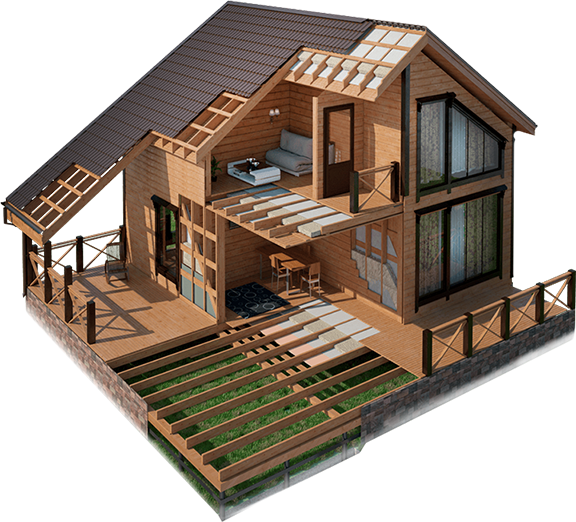
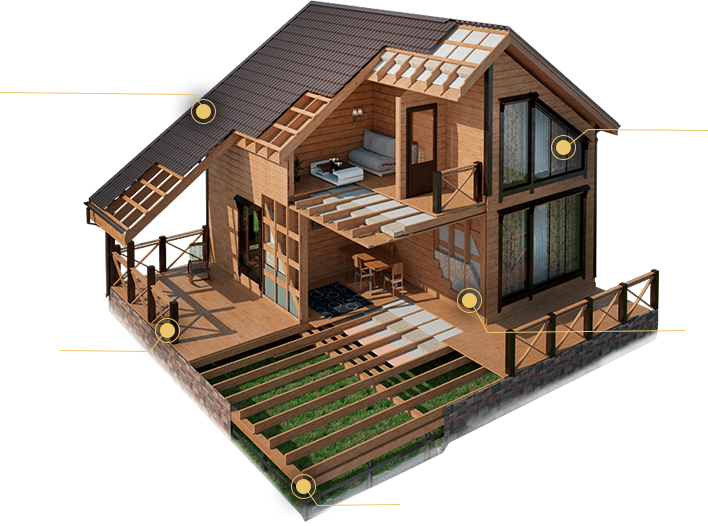
grid + house fix

diff --git a/src/styles/styles.css b/src/styles/styles.css
@@ -1,1 +1,1 @@
-*,::after,::before{box-sizing:border-box}blockquote,body,dd,dl,figure,h1,h2,h3,h4,p{margin:0}ol[role=list],ul[role=list]{list-style:none}html:focus-within{scroll-behavior:smooth}body{min-height:100vh;text-rendering:optimizeSpeed}a:not([class]){text-decoration-skip-ink:auto}img,picture{max-width:100%;display:block}button,input,select,textarea{font:inherit}@font-face{font-family:Neumann;src:url(../../fonts/td-neumann.otf)}@font-face{font-family:MuseoSansCyrl;src:url(../../fonts/MuseoSansCyrl100.ttf) format("truetype"),url(../../fonts/MuseoSansCyrl100.woff) format("woff");font-weight:100}@font-face{font-family:MuseoSansCyrl;src:url(../../fonts/MuseoSansCyrl300.ttf) format("truetype"),url(../../fonts/MuseoSansCyrl300.woff) format("woff");font-weight:300}@font-face{font-family:MuseoSansCyrl;src:url(../../fonts/MuseoSansCyrl500.ttf) format("truetype"),url(../../fonts/MuseoSansCyrl500.woff) format("woff");font-weight:500}@font-face{font-family:MuseoSansCyrl;src:url(../../fonts/MuseoSansCyrl700.ttf) format("truetype"),url(../../fonts/MuseoSansCyrl700.woff) format("woff");font-weight:700}body{background-color:#25252d;font-family:MuseoSansCyrl,sans-serif}.container{max-width:1170px;padding-right:15px;padding-left:15px;margin:0 auto}.btn{display:flex;border-radius:30px;justify-content:center;align-items:center;text-decoration:none;height:60px}.btn-gradient{background-image:-moz-linear-gradient(0deg,#fcc372 0,#f0dbbc 100%);background-image:-webkit-linear-gradient(0deg,#fcc372 0,#f0dbbc 100%);background-image:-ms-linear-gradient(0deg,#fcc372 0,#f0dbbc 100%)}.btn-gradient .btn-text{font-size:18px;font-weight:700;color:#25252d}.btn-transparent{background:0 0;border-width:1px;border-color:#fff;border-style:solid}.btn-transparent .btn-text{font-size:18px;font-weight:700;color:#fff}.header-main-wrapper{background-image:url(../../images/main/header-background.png);background-repeat:no-repeat;background-size:cover;background-attachment:fixed;background-position:top;margin-bottom:144px}.header-main-wrapper::after{content:"";display:block;height:115px;width:100%;background:linear-gradient(transparent,#25252d)}.header-main-wrapper .header{border-bottom:1px solid #363d51;padding:21px 0}.header-main-wrapper .header .container{position:relative;display:flex;align-items:center;justify-content:space-between}.header-main-wrapper .header .container .header-call{display:flex;flex-direction:column;max-width:170px}.header-main-wrapper .header .container .header-call .header-call-text{margin-bottom:13px;color:#fff;font-weight:700;line-height:.833}.header-main-wrapper .header .container .header-call .header-call-action{text-align:right;position:relative}.header-main-wrapper .header .container .header-call .header-call-action #call-action{font-size:16px;text-decoration:none;color:#ecc66b;line-height:.938;font-weight:700;position:relative}.header-main-wrapper .header .container .header-call .header-call-action #call-action::before{content:url(../../images/main/header-effect.png);display:none;position:absolute;top:-18px;left:-46px}.header-main-wrapper .header .container .header-call .header-call-action #call-action::after{display:block;position:absolute;left:0;width:0;height:2px;background-color:#ecc66b;content:"";transition:width .3s ease-out}.header-main-wrapper .header .container .header-call .header-call-action #call-action:focus::after{width:100%}.header-main-wrapper .header .container .header-call .header-call-action #call-action:hover::before{display:block}.header-main-wrapper .header .container .header-call .header-call-action #call-action:hover::after{width:100%}.header-main-wrapper .header .container .logo{position:absolute;left:calc(50% - 45px);top:calc(50% - 30px)}.header-main-wrapper .building-description{margin-top:162px;text-align:center;padding-bottom:120px}.header-main-wrapper .building-description .container{position:relative}.header-main-wrapper .building-description .container .building-description-wrapper{max-width:634px;margin:0 auto}.header-main-wrapper .building-description .container .building-description-wrapper h1{font-size:50px;font-family:Neumann,sans-serif;color:#ecc66b;margin-bottom:25px}.header-main-wrapper .building-description .container .building-description-wrapper .building-description-text{font-size:18px;color:#fff;font-weight:700;margin-bottom:40px}.header-main-wrapper .building-description .container .building-description-wrapper .btn{margin:0 auto;width:300px;height:60px}.header-main-wrapper .building-description .container .flip-wrapper-1 .building-text-flip{position:absolute;left:-39px;top:285px;font-size:18px;font-weight:500;color:#bababa;-moz-transform:matrix(0,-1,1,0,0,0);-webkit-transform:matrix(0,-1,1,0,0,0);-ms-transform:matrix(0,-1,1,0,0,0)}.header-main-wrapper .building-description .container .flip-wrapper-1 .flip-arrow{position:absolute;left:15px;top:385px}.header-main-wrapper .building-description .container .flip-wrapper-2{display:flex;flex-wrap:wrap;max-width:31px;position:absolute;right:15px;top:40px}.header-main-wrapper .building-description .container .flip-wrapper-2 svg{margin-bottom:30px}.header-main-wrapper .building-description .container .flip-wrapper-2 svg:nth-child(1) path{color:#fff}.header-main-wrapper .building-description .container .flip-wrapper-2 svg:nth-child(3){fill:#fff}.header-main-wrapper .building-description .container .flip-wrapper-2 svg:last-child{margin-bottom:0}main .building-projects{margin-bottom:121px}main .building-projects .container h2{text-align:center;font-size:40px;font-family:Neumann,sans-serif;color:#ecc66b;margin-bottom:70px}main .building-projects .container .project-item{display:flex;align-items:flex-end;justify-content:space-between;margin-bottom:120px}main .building-projects .container .project-item:last-child{margin-bottom:0}main .building-projects .container .project-item .project-photos{max-width:588px;display:flex;flex-wrap:wrap}main .building-projects .container .project-item .project-photos .project-photos-big-photo{margin-bottom:24px}main .building-projects .container .project-item .project-photos .project-photos-block{display:flex;align-items:center;justify-content:space-between;width:588px}main .building-projects .container .project-item .project-text:nth-child(even){max-width:486px}main .building-projects .container .project-item .project-text:nth-child(odd){max-width:510px}main .building-projects .container .project-item .project-text .project-text-title{font-size:30px;color:#fff;font-weight:500;margin-bottom:40px}main .building-projects .container .project-item .project-text .project-text-description{font-size:18px;color:#fff;line-height:1.278;font-weight:300;margin-bottom:50px}main .building-projects .container .project-item .project-text .project-text-circles{display:flex;align-items:center;justify-content:space-between;margin-bottom:50px}main .building-projects .container .project-item .project-text .project-text-circles:nth-child(odd){max-width:486px}main .building-projects .container .project-item .project-text .project-text-circles .circles-item{display:flex;justify-content:center;align-items:center;background:0 0;border-width:1px;border-color:#ecc66b;border-style:solid;border-radius:50%;width:108px;height:108px}main .building-projects .container .project-item .project-text .project-text-circles .circles-item span{text-align:center;max-width:75px;font-size:20px;color:#ecc66b;line-height:1.25;font-weight:500}main .building-projects .container .project-item .project-text .project-text-actions .btn{width:365px;margin-bottom:20px}main .building-projects .container .project-item .project-text .project-text-actions .btn:last-child{margin-bottom:0}main .building-projects .container .show-wrapper{display:flex;text-align:center;justify-content:center}main .building-projects .container .show-wrapper #show-more-projects{font-size:18px;font-weight:500;color:#89898a;text-decoration:none;margin-right:10px}main .building-projects .container .show-wrapper svg{fill:#89898a}main .buildings-technology{margin-bottom:224px}main .buildings-technology .container{text-align:center}main .buildings-technology .container h2{font-size:40px;font-family:Neumann,sans-serif;color:#ecc66b;margin-bottom:83px}main .buildings-technology .container .tech-wrapper{position:relative}main .buildings-technology .container .tech-wrapper img{margin:0 auto}main .buildings-technology .container .tech-wrapper .tech-item{position:relative}main .buildings-technology .container .tech-wrapper .tech-item img{position:absolute;top:0;left:0}main .buildings-technology .container .tech-wrapper .tech-item.ti1{top:-408px;left:715px}main .buildings-technology .container .tech-wrapper .tech-item.ti1 .tech-item-text{max-width:270px;top:7px;left:189px}main .buildings-technology .container .tech-wrapper .tech-item.ti2{top:-263px;left:630px}main .buildings-technology .container .tech-wrapper .tech-item.ti2 .tech-item-text{max-width:239px;top:52px;left:274px}main .buildings-technology .container .tech-wrapper .tech-item.ti3{top:-68px;left:470px}main .buildings-technology .container .tech-wrapper .tech-item.ti3 .tech-item-text{max-width:230px;top:41px;left:145px}main .buildings-technology .container .tech-wrapper .tech-item.ti4{top:-230px;left:260px}main .buildings-technology .container .tech-wrapper .tech-item.ti4 .tech-item-text{max-width:239px;top:43px;left:-235px}main .buildings-technology .container .tech-wrapper .tech-item.ti5{top:-437px;left:200px}main .buildings-technology .container .tech-wrapper .tech-item.ti5 .tech-item-text{max-width:267px;top:20px;left:-198px}main .buildings-technology .container .tech-wrapper .tech-item .tech-item-text{position:absolute;text-align:left}main .buildings-technology .container .tech-wrapper .tech-item .tech-item-text .tech-item-title{font-size:18px;color:#fff;font-weight:500;margin-bottom:16px}main .buildings-technology .container .tech-wrapper .tech-item .tech-item-text .tech-item-description{font-size:16px;color:#fff;line-height:1.313;font-weight:100}main .steps .container h2{text-align:center;font-size:40px;font-family:Neumann,sans-serif;color:#ecc66b;margin-bottom:121px}main .steps .container .steps-items{display:grid;align-items:center;grid-template-columns:308px;gap:151px 0}main .steps .container .steps-items .step-item{justify-self:center;display:flex;align-items:flex-start}main .steps .container .steps-items .step-item .step-item-image{margin-right:18px}main .steps .container .steps-items .step-item .step-item-text .item-text-title{font-size:18px;font-weight:500;color:#fff;margin-bottom:10px}main .steps .container .steps-items .step-item .step-item-text .item-text-description{font-size:18px;font-weight:100;color:#fff;line-height:1.278}main .steps .container .steps-items .step-item .step-item-text .item-text-description span{font-weight:700;text-decoration:underline}main .steps .container .steps-items .step-item .step-item-text:nth-child(1){max-width:241px}main .steps .container .steps-items .step-item .step-item-text:nth-child(2){max-width:271px}main .steps .container .steps-items .step-item .step-item-text:nth-child(3){max-width:203px}main .steps .container .steps-items .step-item .step-item-text:nth-child(4){max-width:195px}main .steps .container .steps-items .step-item .step-item-text:nth-child(5){max-width:242px}main .steps .container .steps-items .step-item .step-item-text:nth-child(6){max-width:173px}
+*,::after,::before{box-sizing:border-box}blockquote,body,dd,dl,figure,h1,h2,h3,h4,p{margin:0}ol[role=list],ul[role=list]{list-style:none}html:focus-within{scroll-behavior:smooth}body{min-height:100vh;text-rendering:optimizeSpeed}a:not([class]){text-decoration-skip-ink:auto}img,picture{max-width:100%;display:block}button,input,select,textarea{font:inherit}@font-face{font-family:Neumann;src:url(../../fonts/td-neumann.otf)}@font-face{font-family:MuseoSansCyrl;src:url(../../fonts/MuseoSansCyrl100.ttf) format("truetype"),url(../../fonts/MuseoSansCyrl100.woff) format("woff");font-weight:100}@font-face{font-family:MuseoSansCyrl;src:url(../../fonts/MuseoSansCyrl300.ttf) format("truetype"),url(../../fonts/MuseoSansCyrl300.woff) format("woff");font-weight:300}@font-face{font-family:MuseoSansCyrl;src:url(../../fonts/MuseoSansCyrl500.ttf) format("truetype"),url(../../fonts/MuseoSansCyrl500.woff) format("woff");font-weight:500}@font-face{font-family:MuseoSansCyrl;src:url(../../fonts/MuseoSansCyrl700.ttf) format("truetype"),url(../../fonts/MuseoSansCyrl700.woff) format("woff");font-weight:700}body{background-color:#25252d;font-family:MuseoSansCyrl,sans-serif}.container{max-width:1170px;padding-right:15px;padding-left:15px;margin:0 auto}.btn{display:flex;border-radius:30px;justify-content:center;align-items:center;text-decoration:none;height:60px}.btn-gradient{background-image:-moz-linear-gradient(0deg,#fcc372 0,#f0dbbc 100%);background-image:-webkit-linear-gradient(0deg,#fcc372 0,#f0dbbc 100%);background-image:-ms-linear-gradient(0deg,#fcc372 0,#f0dbbc 100%)}.btn-gradient .btn-text{font-size:18px;font-weight:700;color:#25252d}.btn-transparent{background:0 0;border-width:1px;border-color:#fff;border-style:solid}.btn-transparent .btn-text{font-size:18px;font-weight:700;color:#fff}.header-main-wrapper{background-image:url(../../images/main/header-background.png);background-repeat:no-repeat;background-size:cover;background-attachment:fixed;background-position:top;margin-bottom:144px}.header-main-wrapper::after{content:"";display:block;height:115px;width:100%;background:linear-gradient(transparent,#25252d)}.header-main-wrapper .header{border-bottom:1px solid #363d51;padding:21px 0}.header-main-wrapper .header .container{position:relative;display:flex;align-items:center;justify-content:space-between}.header-main-wrapper .header .container .header-call{display:flex;flex-direction:column;max-width:170px}.header-main-wrapper .header .container .header-call .header-call-text{margin-bottom:13px;color:#fff;font-weight:700;line-height:.833}.header-main-wrapper .header .container .header-call .header-call-action{text-align:right;position:relative}.header-main-wrapper .header .container .header-call .header-call-action #call-action{font-size:16px;text-decoration:none;color:#ecc66b;line-height:.938;font-weight:700;position:relative}.header-main-wrapper .header .container .header-call .header-call-action #call-action::before{content:url(../../images/main/header-effect.png);display:none;position:absolute;top:-18px;left:-46px}.header-main-wrapper .header .container .header-call .header-call-action #call-action::after{display:block;position:absolute;left:0;width:0;height:2px;background-color:#ecc66b;content:"";transition:width .3s ease-out}.header-main-wrapper .header .container .header-call .header-call-action #call-action:focus::after{width:100%}.header-main-wrapper .header .container .header-call .header-call-action #call-action:hover::before{display:block}.header-main-wrapper .header .container .header-call .header-call-action #call-action:hover::after{width:100%}.header-main-wrapper .header .container .logo{position:absolute;left:calc(50% - 45px);top:calc(50% - 30px)}.header-main-wrapper .building-description{margin-top:162px;text-align:center;padding-bottom:120px}.header-main-wrapper .building-description .container{position:relative}.header-main-wrapper .building-description .container .building-description-wrapper{max-width:634px;margin:0 auto}.header-main-wrapper .building-description .container .building-description-wrapper h1{font-size:50px;font-family:Neumann,sans-serif;color:#ecc66b;margin-bottom:25px}.header-main-wrapper .building-description .container .building-description-wrapper .building-description-text{font-size:18px;color:#fff;font-weight:700;margin-bottom:40px}.header-main-wrapper .building-description .container .building-description-wrapper .btn{margin:0 auto;width:300px;height:60px}.header-main-wrapper .building-description .container .flip-wrapper-1 .building-text-flip{position:absolute;left:-39px;top:285px;font-size:18px;font-weight:500;color:#bababa;-moz-transform:matrix(0,-1,1,0,0,0);-webkit-transform:matrix(0,-1,1,0,0,0);-ms-transform:matrix(0,-1,1,0,0,0)}.header-main-wrapper .building-description .container .flip-wrapper-1 .flip-arrow{position:absolute;left:15px;top:385px}.header-main-wrapper .building-description .container .flip-wrapper-2{display:flex;flex-wrap:wrap;max-width:31px;position:absolute;right:15px;top:40px}.header-main-wrapper .building-description .container .flip-wrapper-2 svg{margin-bottom:30px}.header-main-wrapper .building-description .container .flip-wrapper-2 svg:nth-child(1) path{color:#fff}.header-main-wrapper .building-description .container .flip-wrapper-2 svg:nth-child(3){fill:#fff}.header-main-wrapper .building-description .container .flip-wrapper-2 svg:last-child{margin-bottom:0}main .building-projects{margin-bottom:121px}main .building-projects .container h2{text-align:center;font-size:40px;font-family:Neumann,sans-serif;color:#ecc66b;margin-bottom:70px}main .building-projects .container .project-item{display:flex;align-items:flex-end;justify-content:space-between;margin-bottom:120px}main .building-projects .container .project-item:last-child{margin-bottom:0}main .building-projects .container .project-item .project-photos{max-width:588px;display:flex;flex-wrap:wrap}main .building-projects .container .project-item .project-photos .project-photos-big-photo{margin-bottom:24px}main .building-projects .container .project-item .project-photos .project-photos-block{display:flex;align-items:center;justify-content:space-between;width:588px}main .building-projects .container .project-item .project-text:nth-child(even){max-width:486px}main .building-projects .container .project-item .project-text:nth-child(odd){max-width:510px}main .building-projects .container .project-item .project-text .project-text-title{font-size:30px;color:#fff;font-weight:500;margin-bottom:40px}main .building-projects .container .project-item .project-text .project-text-description{font-size:18px;color:#fff;line-height:1.278;font-weight:300;margin-bottom:50px}main .building-projects .container .project-item .project-text .project-text-circles{display:flex;align-items:center;justify-content:space-between;margin-bottom:50px}main .building-projects .container .project-item .project-text .project-text-circles:nth-child(odd){max-width:486px}main .building-projects .container .project-item .project-text .project-text-circles .circles-item{display:flex;justify-content:center;align-items:center;background:0 0;border-width:1px;border-color:#ecc66b;border-style:solid;border-radius:50%;width:108px;height:108px}main .building-projects .container .project-item .project-text .project-text-circles .circles-item span{text-align:center;max-width:75px;font-size:20px;color:#ecc66b;line-height:1.25;font-weight:500}main .building-projects .container .project-item .project-text .project-text-actions .btn{width:365px;margin-bottom:20px}main .building-projects .container .project-item .project-text .project-text-actions .btn:last-child{margin-bottom:0}main .building-projects .container .show-wrapper{display:flex;text-align:center;justify-content:center}main .building-projects .container .show-wrapper #show-more-projects{font-size:18px;font-weight:500;color:#89898a;text-decoration:none;margin-right:10px}main .building-projects .container .show-wrapper svg{fill:#89898a}main .buildings-technology{margin-bottom:224px}main .buildings-technology .container{position:relative;max-width:1200px;padding-right:0;padding-left:0}main .buildings-technology .container h2{text-align:center;font-size:40px;font-family:Neumann,sans-serif;color:#ecc66b;margin-bottom:83px}main .buildings-technology .container .tech-wrapper{max-width:695px;margin:0 auto}main .buildings-technology .container .tech-wrapper .tech-item{text-align:left;position:absolute}main .buildings-technology .container .tech-wrapper .tech-item .tech-item-title{font-size:18px;font-weight:500;color:#fff;margin-bottom:16px}main .buildings-technology .container .tech-wrapper .tech-item .tech-item-description{font-size:16px;font-weight:100;color:#fff;line-height:1.313}main .buildings-technology .container .tech-wrapper .tech-item.ti1{max-width:270px;left:964px;top:261px}main .buildings-technology .container .tech-wrapper .tech-item.ti2{max-width:239px;left:946px;top:457px}main .buildings-technology .container .tech-wrapper .tech-item.ti3{max-width:230px;left:660px;top:627px}main .buildings-technology .container .tech-wrapper .tech-item.ti4{max-width:239px;left:79px;top:476px}main .buildings-technology .container .tech-wrapper .tech-item.ti5{max-width:269px;left:30px;top:234px}main .steps{margin-bottom:120px}main .steps .container{max-width:1200px;padding-right:0;padding-left:0}main .steps .container h2{text-align:center;font-size:40px;font-family:Neumann,sans-serif;color:#ecc66b;margin-bottom:121px}main .steps .container .steps-items{display:grid;align-items:center;justify-items:end;grid-template-columns:408px 408px 282px;justify-content:end;gap:151px 0}main .steps .container .steps-items .step-item{position:relative;justify-self:start;display:flex;align-items:flex-start}main .steps .container .steps-items .step-item .bg-img{position:absolute;left:-5px;top:-47px;z-index:-1}main .steps .container .steps-items .step-item .step-item-image{margin-right:18px}main .steps .container .steps-items .step-item .step-item-text .item-text-title{font-size:18px;font-weight:500;color:#fff;margin-bottom:10px}main .steps .container .steps-items .step-item .step-item-text .item-text-description{font-size:18px;font-weight:100;color:#fff;line-height:1.278}main .steps .container .steps-items .step-item .step-item-text .item-text-description span{font-weight:700;text-decoration:underline}main .steps .container .steps-items .step-item:nth-child(1) .step-item-text{max-width:241px}main .steps .container .steps-items .step-item:nth-child(2) .step-item-text{max-width:271px}main .steps .container .steps-items .step-item:nth-child(3) .step-item-text{max-width:203px}main .steps .container .steps-items .step-item:nth-child(4) .step-item-text{max-width:195px}main .steps .container .steps-items .step-item:nth-child(5) .step-item-text{max-width:242px}main .steps .container .steps-items .step-item:nth-child(6) .step-item-text{max-width:173px}

diff --git a/index.html b/index.html
@@ -180,61 +180,45 @@
             <div class="tech-wrapper">
                 <img src="images/main/house.png" alt="Дом">
                 <div class="tech-item ti1">
-                    <img src="images/main/pointer1.png" alt="Указатель">
-                    <div class="tech-item-text">
-                        <div class="tech-item-title">
-                            5 камерные окна
-                        </div>
-                        <div class="tech-item-description">
-                            Обеспечивает исключительную сохранность тепла в доме
-                        </div>
+                    <div class="tech-item-title">
+                        5 камерные окна
                     </div>
-
+                    <div class="tech-item-description">
+                        Обеспечивает исключительную сохранность тепла в доме
+                    </div>
                 </div>
                 <div class="tech-item ti2">
-                    <img src="images/main/pointer2.png" alt="Указатель">
-                    <div class="tech-item-text">
-                        <div class="tech-item-title">
-                            Плитная ветрозащита
-                        </div>
-                        <div class="tech-item-description">
-                            Используемая влагостойкая ветрозащитная плита обеспечивает дополнительную шумоизоляцию стен
-                        </div>
+                    <div class="tech-item-title">
+                        Плитная ветрозащита
+                    </div>
+                    <div class="tech-item-description">
+                        Используемая влагостойкая ветрозащитная плита обеспечивает дополнительную шумоизоляцию стен
                     </div>
                 </div>
                 <div class="tech-item ti3">
-                    <img src="images/main/pointer3.png" alt="Указатель">
-                    <div class="tech-item-text">
-                        <div class="tech-item-title">
-                            Сборка силовых узлов
-                        </div>
-                        <div class="tech-item-description">
-                            Основные силовые узлы наших домов оцинкованы, что позволяет быть уверенными в исключительной
-                            прочности и долговечности конструкции
-                        </div>
+                    <div class="tech-item-title">
+                        Сборка силовых узлов
+                    </div>
+                    <div class="tech-item-description">
+                        Основные силовые узлы наших домов оцинкованы, что позволяет быть уверенными в исключительной
+                        прочности и долговечности конструкции
                     </div>
                 </div>
                 <div class="tech-item ti4">
-                    <img src="images/main/pointer4.png" alt="Указатель">
-                    <div class="tech-item-text">
-                        <div class="tech-item-title">
-                            Диагональный раскос
-                        </div>
-                        <div class="tech-item-description">
-                            Система диагональных раскосов позволяет создать оптимальный вентиляционный зазор для капитальных
-                            стен и наружной отделки
-                        </div>
+                    <div class="tech-item-title">
+                        Диагональный раскос
+                    </div>
+                    <div class="tech-item-description">
+                        Система диагональных раскосов позволяет создать оптимальный вентиляционный зазор для капитальных
+                        стен и наружной отделки
                     </div>
                 </div>
                 <div class="tech-item ti5">
-                    <img src="images/main/pointer5.png" alt="Указатель">
-                    <div class="tech-item-text">
-                        <div class="tech-item-title">
-                            Неразрывний каркас
-                        </div>
-                        <div class="tech-item-description">
-                            Монтаж стен этажей внутри дома и по всему периметру выполняется единым массивом.
-                        </div>
+                    <div class="tech-item-title">
+                        Неразрывний каркас
+                    </div>
+                    <div class="tech-item-description">
+                        Монтаж стен этажей внутри дома и по всему периметру выполняется единым массивом.
                     </div>
                 </div>
             </div>
@@ -246,6 +230,7 @@
             <h2>6 шагов к вашему новому дому</h2>
             <div class="steps-items">
                 <div class="step-item">
+                    <img src="images/main/01.png" alt="01" class="bg-img bi1">
                     <div class="step-item-image">
                         <img src="images/main/step-1.png" alt="Сообщение">
                     </div>
@@ -259,6 +244,7 @@
                     </div>
                 </div>
                 <div class="step-item">
+                    <img src="images/main/02.png" alt="02" class="bg-img bi2">
                     <div class="step-item-image">
                         <img src="images/main/step-2.png" alt="Звонок">
                     </div>
@@ -272,6 +258,7 @@
                     </div>
                 </div>
                 <div class="step-item">
+                    <img src="images/main/03.png" alt="03" class="bg-img bi3">
                     <div class="step-item-image">
                         <img src="images/main/step-3.png" alt="Встреча">
                     </div>
@@ -285,6 +272,7 @@
                     </div>
                 </div>
                 <div class="step-item">
+                    <img src="images/main/04.png" alt="04" class="bg-img bi4">
                     <div class="step-item-image">
                         <img src="images/main/step-4.png" alt="Договор">
                     </div>
@@ -298,6 +286,7 @@
                     </div>
                 </div>
                 <div class="step-item">
+                    <img src="images/main/05.png" alt="05" class="bg-img bi5">
                     <div class="step-item-image">
                         <img src="images/main/step-5.png" alt="Строительство">
                     </div>
@@ -311,6 +300,7 @@
                     </div>
                 </div>
                 <div class="step-item">
+                    <img src="images/main/06.png" alt="06" class="bg-img bi6">
                     <div class="step-item-image">
                         <img src="images/main/step-6.png" alt="Дом">
                     </div>

diff --git a/src/scss/styles.scss b/src/scss/styles.scss
@@ -345,92 +345,70 @@ main {
   .buildings-technology {
     margin-bottom: 224px;
     .container {
-      text-align: center;
+      position: relative;
+      max-width: 1200px;
+      padding-right: 0;
+      padding-left: 0;
       h2 {
+        text-align: center;
         font-size: 40px;
         font-family: "Neumann", sans-serif;
         color: rgb(236, 198, 107);
         margin-bottom: 83px;
       }
       .tech-wrapper {
-        position: relative;
-        img {
-          margin: 0 auto;
-        }
+        max-width: 695px;
+        margin: 0 auto;
         .tech-item {
-          position: relative;
-          img {
-            position: absolute;
-            top: 0;
-            left: 0;
+          text-align: left;
+          position: absolute;
+          .tech-item-title {
+            font-size: 18px;
+            font-weight: 500;
+            color: rgb(255, 255, 255);
+            margin-bottom: 16px;
+          }
+          .tech-item-description {
+            font-size: 16px;
+            font-weight: 100;
+            color: rgb(255, 255, 255);
+            line-height: 1.313;
           }
           &.ti1 {
-            top: -408px;
-            left: 715px;
-            .tech-item-text {
-              max-width: 270px;
-              top: 7px;
-              left: 189px;
-            }
+            max-width: 270px;
+            left: 964px;
+            top: 261px;
           }
           &.ti2 {
-            top: -263px;
-            left: 630px;
-            .tech-item-text {
-              max-width: 239px;
-              top: 52px;
-              left: 274px;
-            }
+            max-width: 239px;
+            left: 946px;
+            top: 457px;
           }
           &.ti3 {
-            top: -68px;
-            left: 470px;
-            .tech-item-text {
-              max-width: 230px;
-              top: 41px;
-              left: 145px;
-            }
+            max-width: 230px;
+            left: 660px;
+            top: 627px;
           }
           &.ti4 {
-            top: -230px;
-            left: 260px;
-            .tech-item-text {
-              max-width: 239px;
-              top: 43px;
-              left: -235px;
-            }
+            max-width: 239px;
+            left: 79px;
+            top: 476px;
           }
           &.ti5 {
-            top: -437px;
-            left: 200px;
-            .tech-item-text {
-              max-width: 267px;
-              top: 20px;
-              left: -198px;
-            }
-          }
-          .tech-item-text {
-            position: absolute;
-            text-align: left;
-            .tech-item-title {
-              font-size: 18px;
-              color: rgb(255, 255, 255);
-              font-weight: 500;
-              margin-bottom: 16px;
-            }
-            .tech-item-description {
-              font-size: 16px;
-              color: rgb(255, 255, 255);
-              line-height: 1.313;
-              font-weight: 100;
-            }
+            max-width: 269px;
+            left: 30px;
+            top: 234px;
           }
         }
       }
     }
   }
   .steps {
+    margin-bottom: 120px;
     .container {
+      max-width: 1200px;
+      padding-right: 0;
+      padding-left: 0;
       h2 {
         text-align: center;
         font-size: 40px;
@@ -441,12 +419,22 @@ main {
       .steps-items {
         display: grid;
         align-items: center;
-        grid-template-columns: 308px;
+        justify-items: end;
+        //grid-template-columns: minmax(285px,408px) minmax(335px, 408px) minmax(265px, 282px);
+        grid-template-columns: 408px 408px 282px;
+        justify-content: end;
         gap: 151px 0;
         .step-item {
-          justify-self: center;
+          position: relative;
+          justify-self: start;
           display: flex;
           align-items: flex-start;
+          .bg-img {
+            position: absolute;
+            left: -5px;
+            top: -47px;
+            z-index: -1;
+          }
           .step-item-image {
             margin-right: 18px;
           }
@@ -467,22 +455,34 @@ main {
                 text-decoration: underline;
               }
             }
-            &:nth-child(1) {
+          }
+          &:nth-child(1) {
+            .step-item-text {
               max-width: 241px;
             }
-            &:nth-child(2) {
+          }
+          &:nth-child(2) {
+            .step-item-text {
               max-width: 271px;
             }
-            &:nth-child(3) {
+          }
+          &:nth-child(3) {
+            .step-item-text {
               max-width: 203px;
             }
-            &:nth-child(4) {
+          }
+          &:nth-child(4) {
+            .step-item-text {
               max-width: 195px;
             }
-            &:nth-child(5) {
+          }
+          &:nth-child(5) {
+            .step-item-text {
               max-width: 242px;
             }
-            &:nth-child(6) {
+          }
+          &:nth-child(6) {
+            .step-item-text {
               max-width: 173px;
             }
           }
